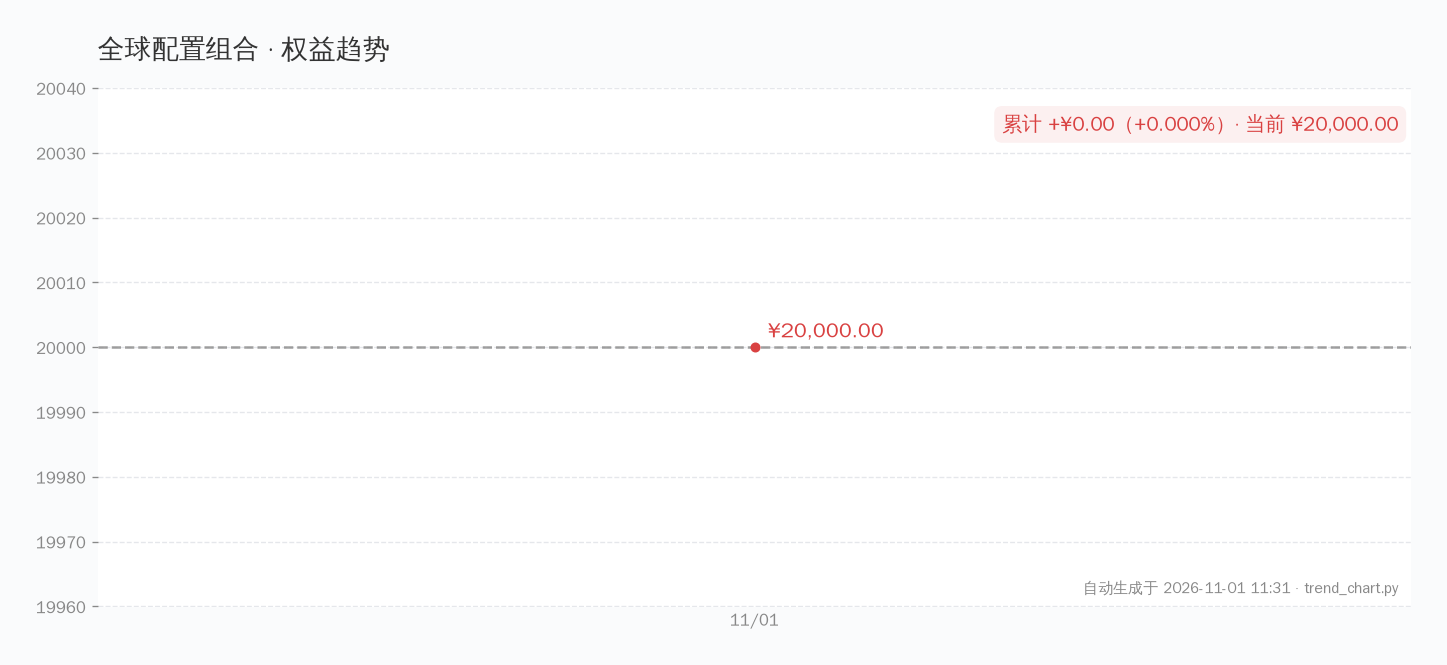
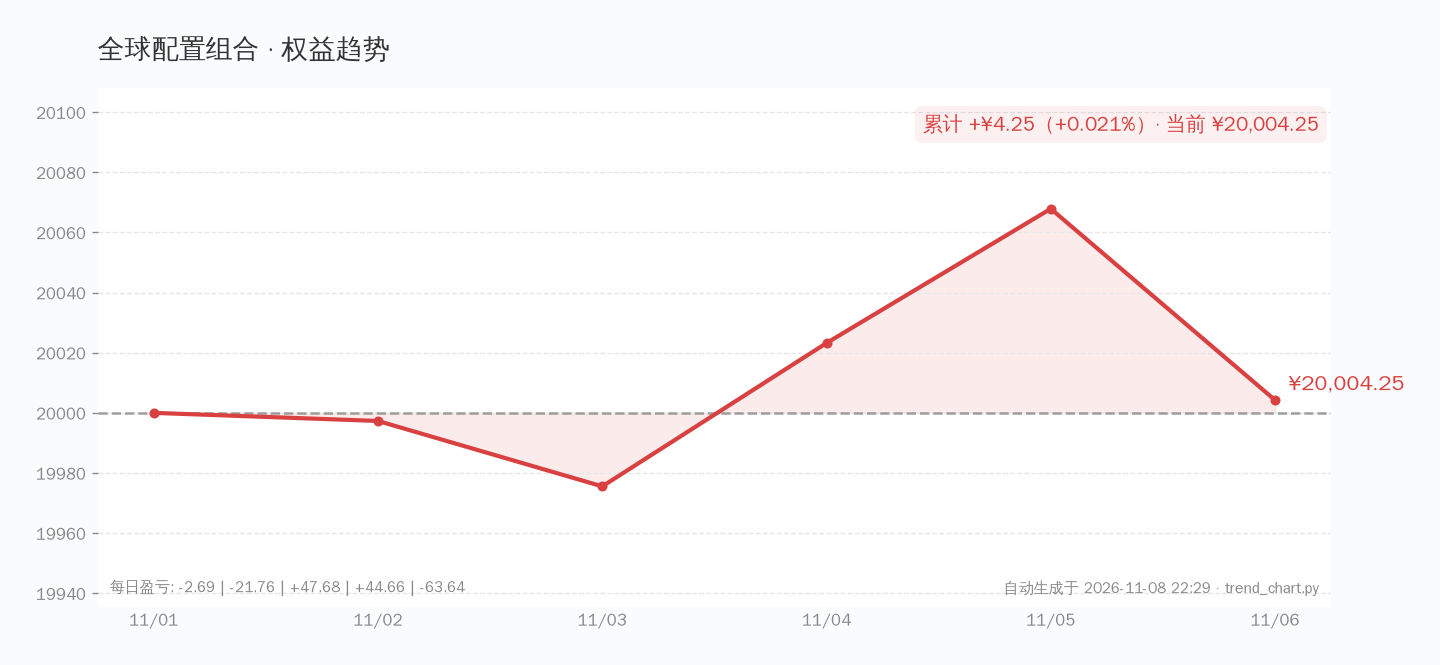
sim: trend chart update 2026-11-06 (equity ¥20,004.25)

diff --git a/global-sim/journal.md b/global-sim/journal.md
@@ -1,0 +1,86 @@
+# 保守党模拟盘日志
+
+> 本金 ¥20000.0 · 开仓 2026-11-01 · 策略：红利打底+黄金对冲+现金缓冲，年度再平衡
+
+## 2026-11-01 开仓建仓
+
+- 买入 纳指ETF国泰(513100) 200股 @ 2.239 = ¥447.8
+- 买入 标普500ETF博时(513500) 200股 @ 2.657 = ¥531.4
+- 买入 德国ETF华安(513030) 200股 @ 1.789 = ¥357.8
+- 买入 日经ETF华夏(513520) 200股 @ 2.18 = ¥436.0
+- 买入 恒生ETF华夏(159920) 300股 @ 1.358 = ¥407.4
+- 买入 恒生科技ETF华夏(513180) 600股 @ 0.468 = ¥280.8
+- 买入 黄金ETF华安(518880) 50股 @ 8.115 = ¥405.75
+- 买入 国债ETF国泰(511010) 3股 @ 141.123 = ¥423.37
+- 买入 十年国债ETF国泰(511260) 2股 @ 135.327 = ¥270.65
+- 剩余现金 ¥16439.03（按货币基金 0.84% 年化计息）
+- 建仓后总权益 ¥20000.00
+
+## 2026-11-02 收盘
+
+- 总权益 **¥19997.31**（当日 -0.01% / 累计 -0.013%）
+- 纳指ETF国泰 2.244 (+0.22%)
+- 标普500ETF博时 2.654 (-0.11%)
+- 德国ETF华安 1.776 (-0.73%)
+- 日经ETF华夏 2.178 (-0.09%)
+- 恒生ETF华夏 1.362 (+0.29%)
+- 恒生科技ETF华夏 0.479 (+2.35%)
+- 黄金ETF华安 7.941 (-2.14%)
+- 国债ETF国泰 141.170 (+0.03%)
+- 十年国债ETF国泰 135.470 (+0.11%)
+- 现金 ¥16439.41
+- 📝 HOLD：美股周五大跌(纳指-2.86%/标普-1.82%)但今日QDII抗跌(纳指ETF+0.22%、标普ETF-0.11%)，无持仓触发-3%止损；黄金-2.14%但VIX数据陈旧无法确认>25，不满足避险买金双条件；恒生科技+2.35%领涨。收盘时段不再开仓，维持现有仓位。
+
+## 2026-11-03 收盘
+
+- 总权益 **¥19975.55**（当日 -0.11% / 累计 -0.122%）
+- 纳指ETF国泰 2.197 (-2.09%)
+- 标普500ETF博时 2.588 (-2.49%)
+- 德国ETF华安 1.770 (-0.34%)
+- 日经ETF华夏 2.143 (-1.61%)
+- 恒生ETF华夏 1.372 (+0.73%)
+- 恒生科技ETF华夏 0.481 (+0.42%)
+- 黄金ETF华安 7.989 (+0.60%)
+- 国债ETF国泰 141.306 (+0.10%)
+- 十年国债ETF国泰 135.710 (+0.18%)
+- 现金 ¥15405.76
+- 📝 收盘检查：无持仓触发-3%止损（最差513500 -2.49%），无溢价/RSI极端信号，13:57已按计划补仓标普500ETF 400股@2.585，此后HOLD。现金¥15405(77%)充足。
+
+## 2026-11-04 收盘
+
+- 总权益 **¥20023.23**（当日 +0.24% / 累计 +0.116%）
+- 德国ETF华安 1.791 (+1.19%)
+- 日经ETF华夏 2.157 (+0.65%)
+- 恒生ETF华夏 1.398 (+1.90%)
+- 恒生科技ETF华夏 0.491 (+2.08%)
+- 黄金ETF华安 8.229 (+3.00%)
+- 国债ETF国泰 141.352 (+0.03%)
+- 十年国债ETF国泰 135.784 (+0.05%)
+- 现金 ¥17412.56
+- 📝 15:22检查:全线收涨无触发。恒生科技+2.08%/黄金+3.00%/恒生+1.90%/德国+1.19%/日经+0.65%,无止损无买点,现金87%充足,HOLD不动
+
+## 2026-11-05 收盘
+
+- 总权益 **¥20067.89**（当日 +0.22% / 累计 +0.339%）
+- 德国ETF华安 1.845 (+3.02%)
+- 日经ETF华夏 2.115 (-1.95%)
+- 恒生ETF华夏 1.453 (+3.93%)
+- 恒生科技ETF华夏 0.517 (+5.30%)
+- 黄金ETF华安 8.420 (+2.32%)
+- 国债ETF国泰 141.352 (+0.00%)
+- 十年国债ETF国泰 135.885 (+0.07%)
+- 现金 ¥17412.96
+- 📝 收盘检查：全持仓无触发条件（日经ETF -1.95%未达-3%止损线，其余上涨；恒生科技+5.30%、恒生+3.93%、黄金+2.32%、德国+3.02%）。HOLD 无交易。现金占比87%远超30%下限，风控安全。
+
+## 2026-11-06 收盘
+
+- 总权益 **¥20004.25**（当日 -0.32% / 累计 +0.021%）
+- 德国ETF华安 1.798 (-2.55%)
+- 恒生ETF华夏 1.440 (-0.89%)
+- 恒生科技ETF华夏 0.510 (-1.35%)
+- 黄金ETF华安 8.248 (-2.04%)
+- 国债ETF国泰 141.436 (+0.06%)
+- 十年国债ETF国泰 136.126 (+0.18%)
+- 现金 ¥14498.49
+- 📝 11-06盘中决策：美股隔夜暴跌(纳指-5.5%/英伟达-9.3%/特斯拉-10.8%)带动QDII普跌，早盘止损卖出日经ETF 200股(-4.82%跌破-3%线，实现-35元)，避险两笔买入黄金ETF共400股(约¥3316)。午后持仓均无新触发：513030 -2.49%未及止损线，黄金已加仓至19%仓位不再追，抄底条件因海外市场大跌不成立。尾盘HOLD，现金占比约73%。
+
